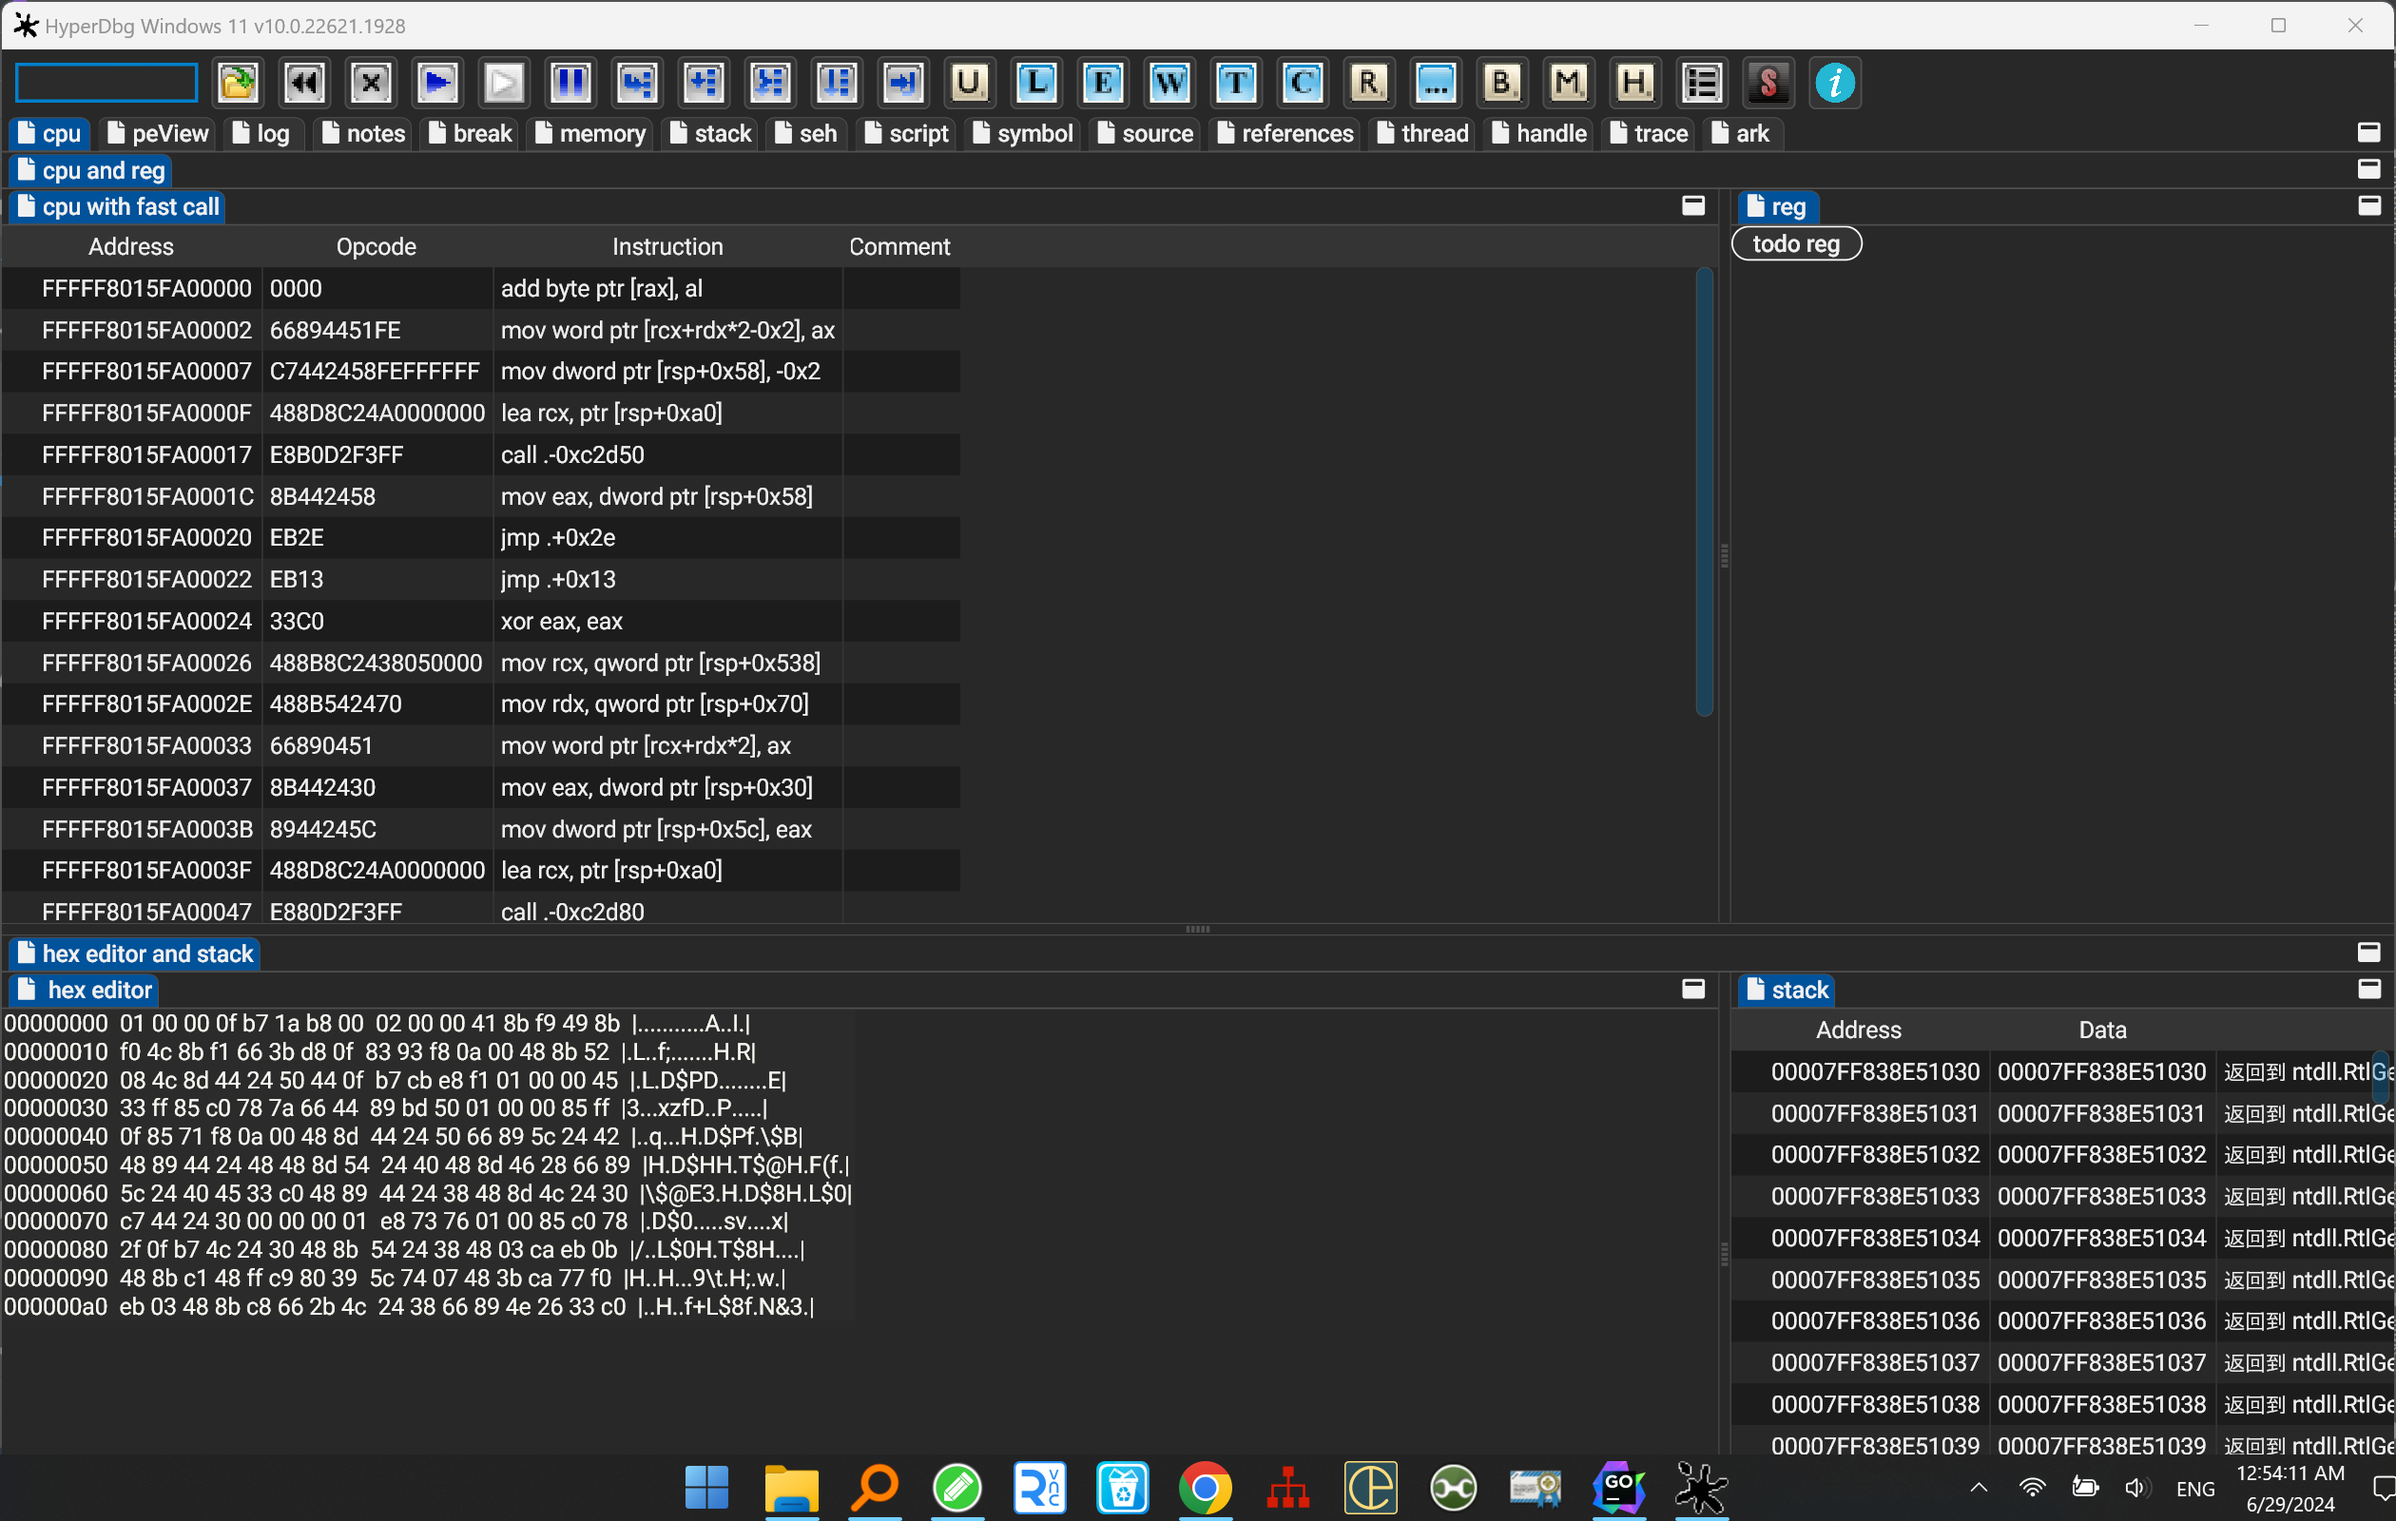
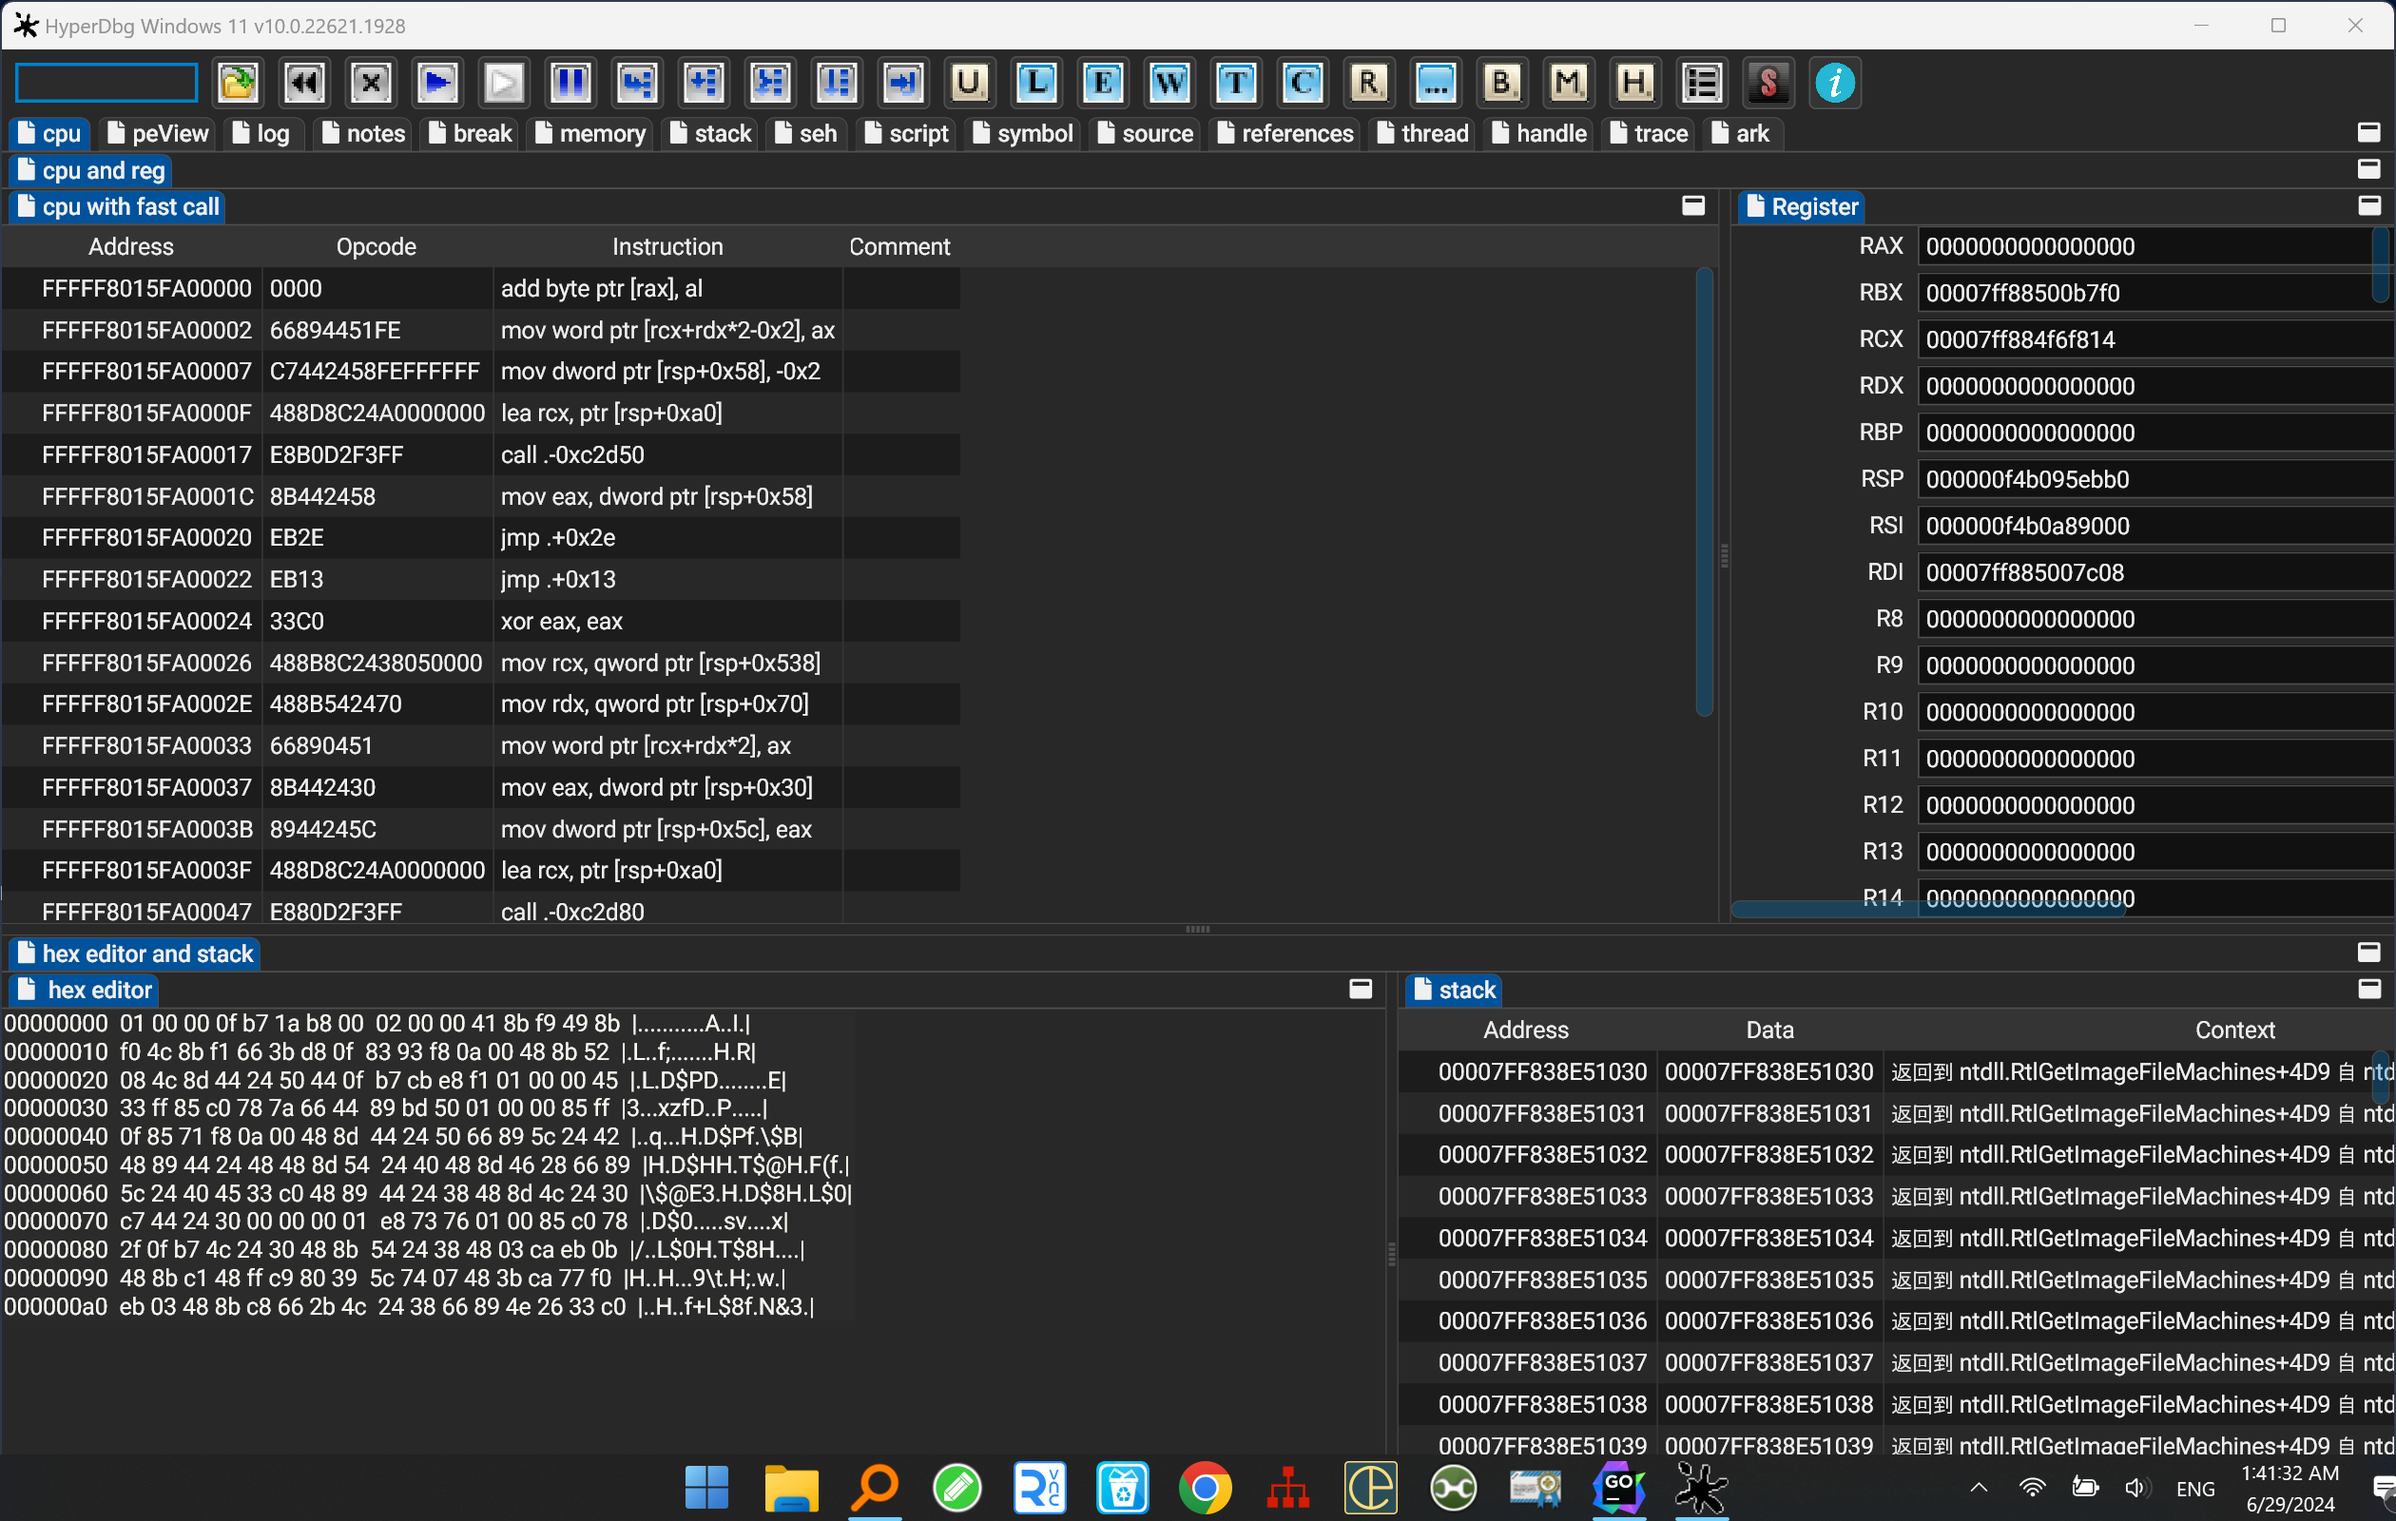
layout Register

Changed region(s): [[0.5571, 0.125, 1.0, 1.0], [0.9905, 0.125, 1.0, 0.625], [0.9905, 0.0, 1.0, 0.0312]]

diff --git a/cpu.go b/cpu.go
@@ -14,9 +14,6 @@ import (
 )
 
 func LayoutCpu(fileName string) unison.Paneler {
-	// asm := LayoutDisassemblyTable(fileName)
-	// return asm
-
 	////fastCallLayout := unison.NewList[ImmData]()
 	//widget.NewButton(m).SetText("goto 00007FF885007C08")
 	//"rdi=00007FF885007C08 \"minkernel\\\\ntdll\\\\ldrinit.c\"",
@@ -170,7 +167,7 @@ func LayoutCpu(fileName string) unison.Paneler {
 	BottomHSplit := widget.NewHSplit(
 		widget.NewTab(" hex editor", "todo hex editor", false, hexEditor),
 		widget.NewTab("stack", "todo stack test", false, stackTable),
-		0.3)
+		0.1)
 	//todo add tab into hex editor and stack layout
 	/*
 		tabs := gi.NewTabs(downSplits)
